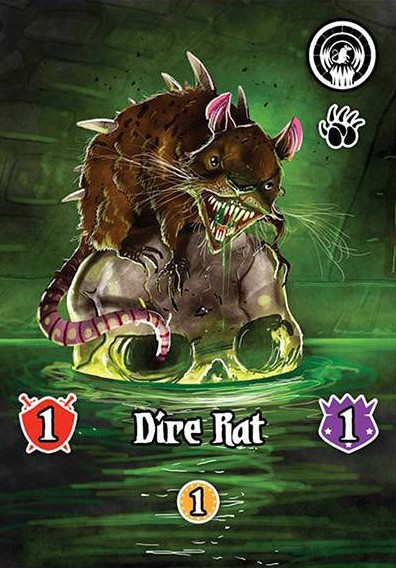
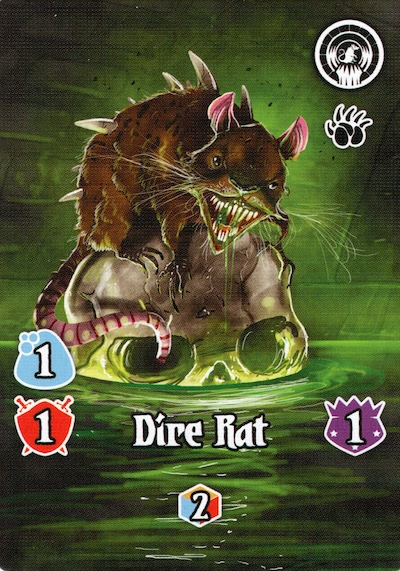
fixed dire rat image

diff --git a/static/game/src/04-market.js b/static/game/src/04-market.js
@@ -502,6 +502,7 @@ function evaluateMarketCardContext(card, state) {
   const tn = Number(state?.turn_number);
   const emeraldActive = actingPlayer ? hasActionEffectFlag(actingPlayer, 'action.emeraldstronghold', tn) : false;
   const pratchettActive = actingPlayer ? hasActionEffectFlag(actingPlayer, 'action.pratchettsplateau', tn) : false;
+  const shilinaActive = actingPlayer ? hasActionEffectFlag(actingPlayer, 'action.newshilinatower', tn) : false;
 
   const loc = state ? findMarketStack(card, state) : null;
   let blockReason = '';
@@ -534,7 +535,19 @@ function evaluateMarketCardContext(card, state) {
       baseCost = Number(top.gold_cost || 0);
       surcharge = emeraldActive ? 0 : ownedNameCount(actingPlayer, top.name);
       scaledCost = baseCost + surcharge;
-      evalRes = canAffordCost(actingPlayer, { gold: scaledCost, strength: 0, magicMin: 0 });
+      if (shilinaActive) {
+        const G = Number(actingPlayer?.gold_score || 0);
+        const S = Number(actingPlayer?.strength_score || 0);
+        const M = Number(actingPlayer?.magic_score || 0);
+        const ok = G + S + M >= scaledCost;
+        const payGold = Math.min(G, scaledCost);
+        const rem1 = scaledCost - payGold;
+        const payStrength = Math.min(S, rem1);
+        const payMagic = Math.max(0, scaledCost - payGold - payStrength);
+        evalRes = { ok, payGold, payStrength, payMagic };
+      } else {
+        evalRes = canAffordCost(actingPlayer, { gold: scaledCost, strength: 0, magicMin: 0 });
+      }
       dupHint = surcharge ? `base ${baseCost}g + ${surcharge} duplicate(s)` : '';
       emeraldHint = (!surcharge && emeraldActive) ? 'Emerald Stronghold: no duplicate surcharge.' : '';
     } else if (card.domain_id != null) {
@@ -573,6 +586,7 @@ function evaluateMarketCardContext(card, state) {
     reqId,
     emeraldActive,
     pratchettActive,
+    shilinaActive,
     loc,
     top,
     stackSize,
@@ -649,6 +663,7 @@ function appendMarketActionUI(infoEl, card, ctx) {
   const fx = [];
   if (ctx.emeraldActive) fx.push('Emerald Stronghold: ignore citizen duplicate surcharge');
   if (ctx.pratchettActive) fx.push("Pratchett's Plateau: domains cost 1 less gold");
+  if (ctx.shilinaActive) fx.push('New Shilina Tower: may pay Citizen cost with Strength');
   if (fx.length) {
     const fb = mk('market-effects-banner');
     fb.textContent = `Active: ${fx.join(' · ')}`;
@@ -684,7 +699,11 @@ function appendMarketActionUI(infoEl, card, ctx) {
     primaryLabel = 'Hire citizen';
     payWrap.dataset.citizenId = String(card.citizen_id);
     payWrap.appendChild(mkPayField('', 'pay-g', 0, Gmax, pay.payGold ?? 0, inputsDisabled, 'Gold payment', 'gold', Gmax));
-    payWrap.appendChild(mkPayField('', 'pay-s', 0, 0, 0, true, 'Citizens use gold and magic', 'strength', Smax));
+    if (ctx.shilinaActive) {
+      payWrap.appendChild(mkPayField('', 'pay-s', 0, Smax, pay.payStrength ?? 0, inputsDisabled, 'Strength payment (New Shilina Tower)', 'strength', Smax));
+    } else {
+      payWrap.appendChild(mkPayField('', 'pay-s', 0, 0, 0, true, 'Citizens use gold and magic', 'strength', Smax));
+    }
     payWrap.appendChild(mkPayField('', 'pay-m', 0, Mmax, pay.payMagic ?? 0, inputsDisabled, 'Magic payment', 'magic', Mmax));
   } else if (card.domain_id != null) {
     primaryLabel = 'Build domain';

diff --git a/game.py b/game.py
@@ -15,22 +15,32 @@ def _n(x, default=0):
         return default
 
 
-def _validate_hire_or_domain_gold_payment(player, scaled_gold_cost, gp, sp, mp):
+def _validate_hire_or_domain_gold_payment(player, scaled_gold_cost, gp, sp, mp, allow_strength=False):
     gp, sp, mp = _n(gp), _n(sp), _n(mp)
     if gp < 0 or sp < 0 or mp < 0:
         raise ValueError("Invalid payment (negative amounts).")
-    if sp != 0:
+    if sp != 0 and not allow_strength:
         raise ValueError("Strength cannot be spent on hiring citizens or building domains.")
     scaled_gold_cost = int(scaled_gold_cost or 0)
-    if scaled_gold_cost > 0 and mp > 0 and gp < 1:
-        raise ValueError("Must pay at least 1 gold to use magic as wild.")
-    total = gp + mp
-    if total < scaled_gold_cost:
-        raise ValueError("Payment does not cover the gold cost.")
-    if total != scaled_gold_cost:
-        raise ValueError("Payment must exactly match the gold cost.")
-    if int(getattr(player, "gold_score", 0)) < gp or int(getattr(player, "magic_score", 0)) < mp:
-        raise ValueError("Insufficient resources.")
+    if allow_strength:
+        total = gp + sp + mp
+        if total < scaled_gold_cost:
+            raise ValueError("Payment does not cover the gold cost.")
+        if total != scaled_gold_cost:
+            raise ValueError("Payment must exactly match the gold cost.")
+        if int(getattr(player, "gold_score", 0)) < gp or int(getattr(player, "magic_score", 0)) < mp \
+                or int(getattr(player, "strength_score", 0)) < sp:
+            raise ValueError("Insufficient resources.")
+    else:
+        if scaled_gold_cost > 0 and mp > 0 and gp < 1:
+            raise ValueError("Must pay at least 1 gold to use magic as wild.")
+        total = gp + mp
+        if total < scaled_gold_cost:
+            raise ValueError("Payment does not cover the gold cost.")
+        if total != scaled_gold_cost:
+            raise ValueError("Payment must exactly match the gold cost.")
+        if int(getattr(player, "gold_score", 0)) < gp or int(getattr(player, "magic_score", 0)) < mp:
+            raise ValueError("Insufficient resources.")
 
 
 def _citizen_has_steal(citizen, on_turn):
@@ -1846,6 +1856,12 @@ class Game:
         opponents = [p for p in self.player_list if p.player_id != player_id]
         if not opponents:
             return [0, 0, 0, 0]
+        opponents = [p for p in opponents if not self._player_has_steal_immunity(p)]
+        if not opponents:
+            self._log_game_event(
+                f"{self._player_label(player_id)} could not steal — all opponents are immune."
+            )
+            return [0, 0, 0, 0]
         victim_options = []
         for opp in opponents:
             opp_name = getattr(opp, "name", None) or f"Player {opp.player_id}"
@@ -3496,6 +3512,8 @@ class Game:
         opts = []
         for p in self.player_list:
             if p.player_id == active_pid:
+                continue
+            if take_or_pay == "take" and self._player_has_steal_immunity(p):
                 continue
             tup = self._player_resource_tuple(p)
             if take_or_pay == "take" and tup[ri] < res_n:
@@ -5335,6 +5353,16 @@ class Game:
             totals["worker"] += int(getattr(c, "worker_count", 0) or 0)
         return totals
 
+    def _player_has_steal_immunity(self, player):
+        """True if the player owns a domain granting immunity to steal/take effects."""
+        for d in list(getattr(player, "owned_domains", []) or []):
+            if self._domain_recurring_passive_on_build_turn_cooldown(d):
+                continue
+            raw = (getattr(d, "passive_effect", None) or "")
+            if str(raw).strip().lower() == "immunity.steal":
+                return True
+        return False
+
     def _player_has_action_effect_flag(self, player, flag_name):
         target = (flag_name or "").strip().lower()
         if not target:
@@ -5399,11 +5427,13 @@ class Game:
             scaled_cost = int(getattr(top, "gold_cost", 0) or 0) + int(owned_same_name)
             if self._player_has_action_effect_flag(player, "action.defiantridge"):
                 scaled_cost = max(0, scaled_cost - 1)
-            _validate_hire_or_domain_gold_payment(player, scaled_cost, gp, sp, mp)
+            has_shilina = self._player_has_action_effect_flag(player, "action.newshilinatower")
+            _validate_hire_or_domain_gold_payment(player, scaled_cost, gp, sp, mp, allow_strength=has_shilina)
 
             before = self._player_scores_line(player)
             player.gold_score = player.gold_score - gp
             player.magic_score = player.magic_score - mp
+            player.strength_score = player.strength_score - sp
             hired = citizen_stack.pop(-1)
             self._citizen_set_flipped(hired, False)
             player.owned_citizens.append(hired)